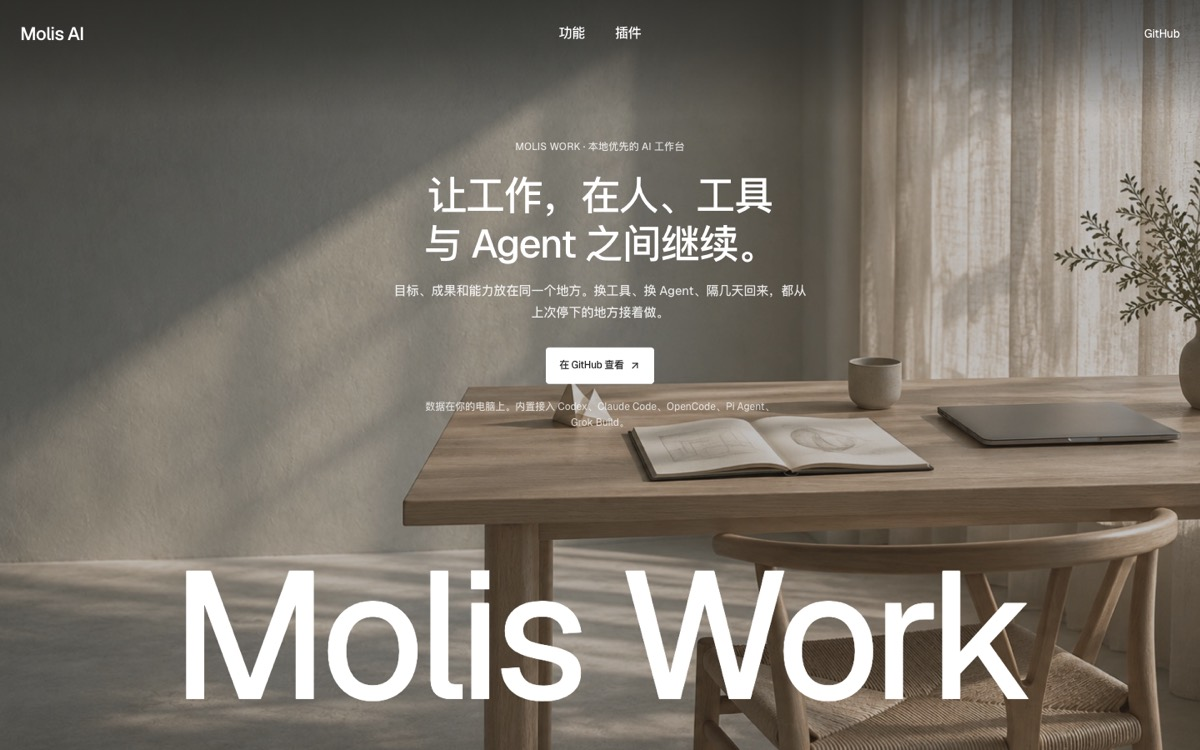
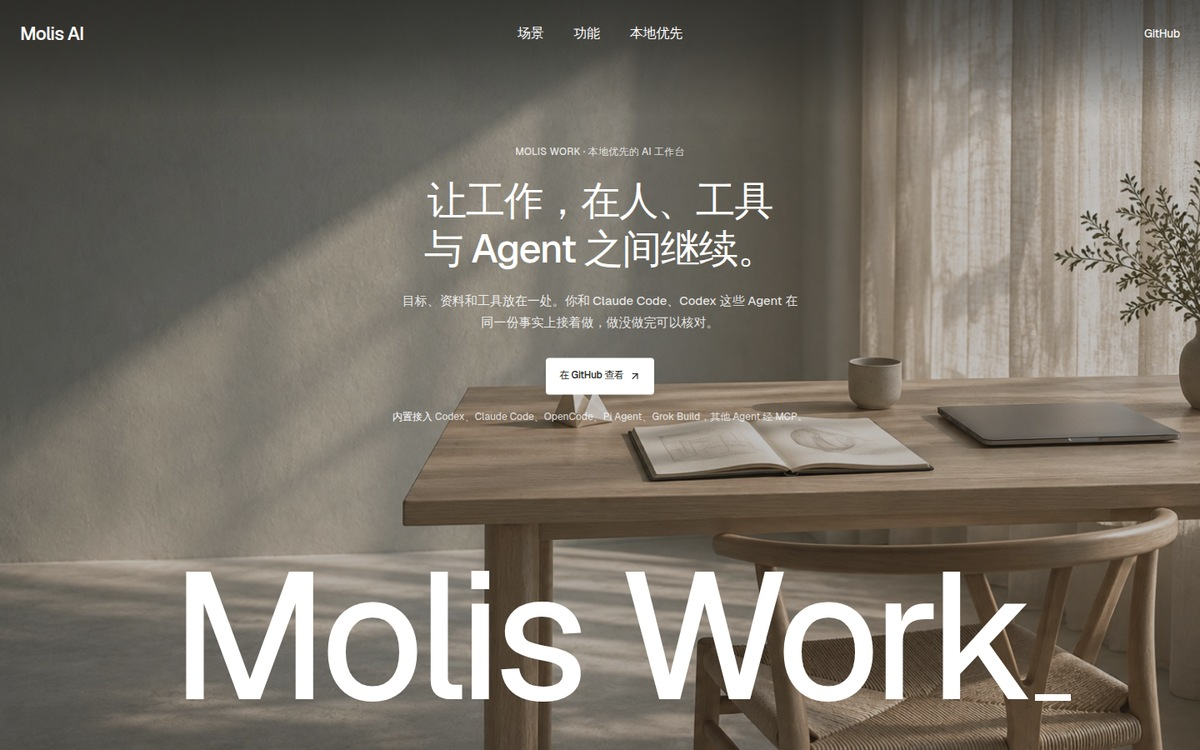
重截预览台与投票页的五张 Molis Work 缩略图
五个 /work 页按产品介绍 V1 改版后，按 specs/brand-review 的尺寸重截首屏，
并在截图来源里记下这次重截。首页截图未变。

Claude-Session: https://claude.ai/code/session_01Vjaz3wRtuf8PhJCRhdENMP

diff --git a/specs/brand-review/spec.md b/specs/brand-review/spec.md
@@ -15,7 +15,7 @@
 - 称呼、选择和理由对所有访问者可见，页面已说明。匿名投票没有防刷能力，只适合内部评审；公开前需要改为登录投票或加限流。
 
 ## 截图来源
-`public/images/demos/directions/` 下 40 张 JPEG 于 2026-10-01 用 Playwright 从预览部署 `claude-project-thread-u25u2v-molis-club-production.sparkling-silence-0a49.workers.dev` 截取首屏：桌面 1440×900，缩至 1200 与 480 宽；手机 390×844 @2x，缩至 599 与 280 宽；由 macOS sips 压缩。Edition C 首页在加载后 3.4 秒截取，标题“Amplify Ideas”完整显示；其余在 4.5 秒后截取。方向改版后需要重截。
+`public/images/demos/directions/` 下 40 张 JPEG 于 2026-10-01 用 Playwright 从预览部署 `claude-project-thread-u25u2v-molis-club-production.sparkling-silence-0a49.workers.dev` 截取首屏：桌面 1440×900，缩至 1200 与 480 宽；手机 390×844 @2x，缩至 599 与 280 宽；由 macOS sips 压缩。Edition C 首页在加载后 3.4 秒截取，标题“Amplify Ideas”完整显示；其余在 4.5 秒后截取。2026-10-05 五个 Molis Work 页按产品介绍 V1 改版后，`*-work*.jpg` 共 20 张从本地开发服务按同样尺寸与等待时间重截，由 ImageMagick 缩放压缩（4:2:0，质量 92–93）；首页截图未变。方向改版后需要重截。
 
 ## 上线
 Sites 部署会自动应用 `drizzle/`。Cloudflare 自有账号部署需要对该 Worker 绑定的 D1 执行一次：
